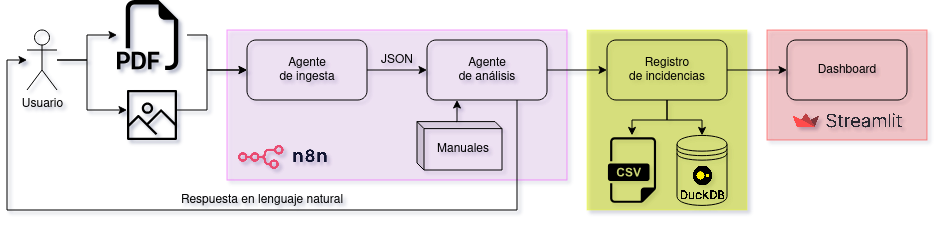
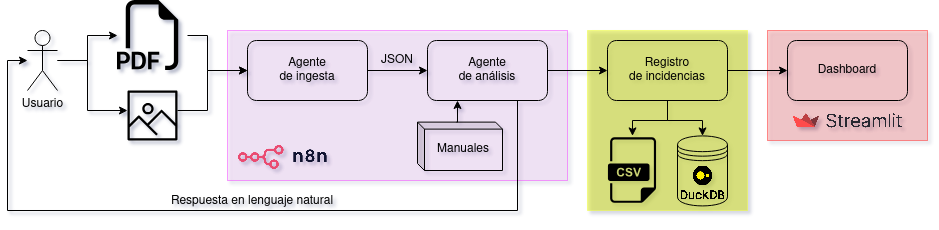
Añadir capturas y desarrollo de ingesta al backup de la memoria

diff --git a/README.md b/README.md
@@ -24,7 +24,7 @@ La arquitectura se basa en un **agente IA que ingiera PDFs** con reportes de inc
 Todo esto se implementa en un ***workflow* n8n** que, a alto nivel, utiliza los siguientes componentes:
 
 <p align="center">
-  <img src="imgs/n8n.png" height="350">
+  <img src="imgs/n8n/0_global.png" height="350">
 </p>
 
 